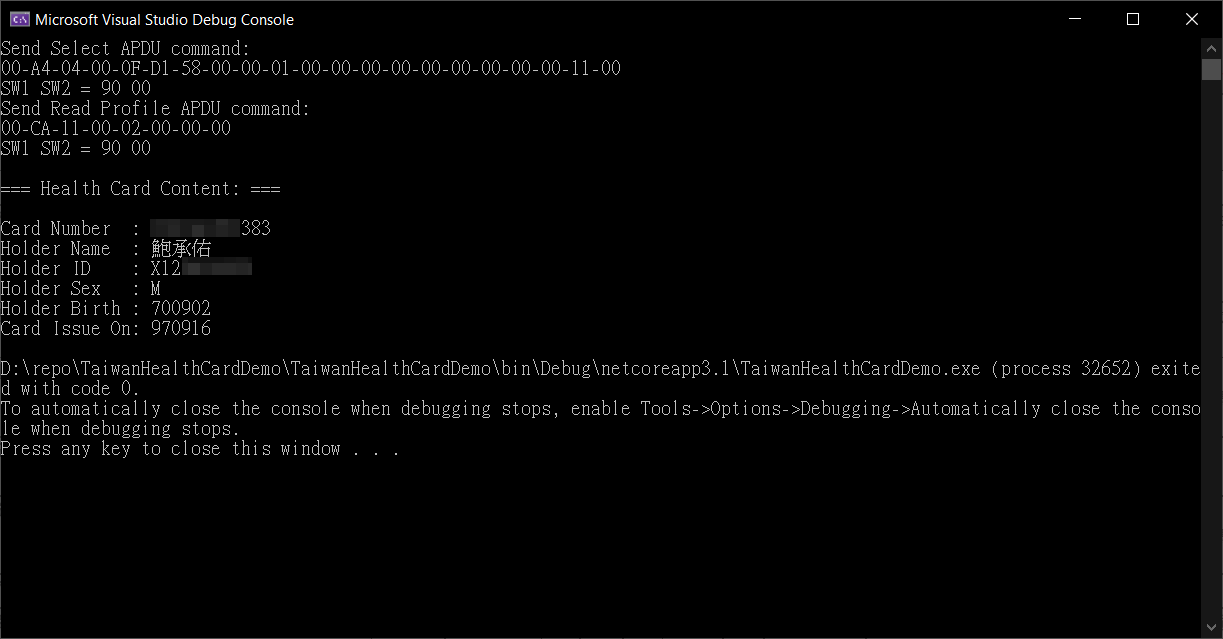
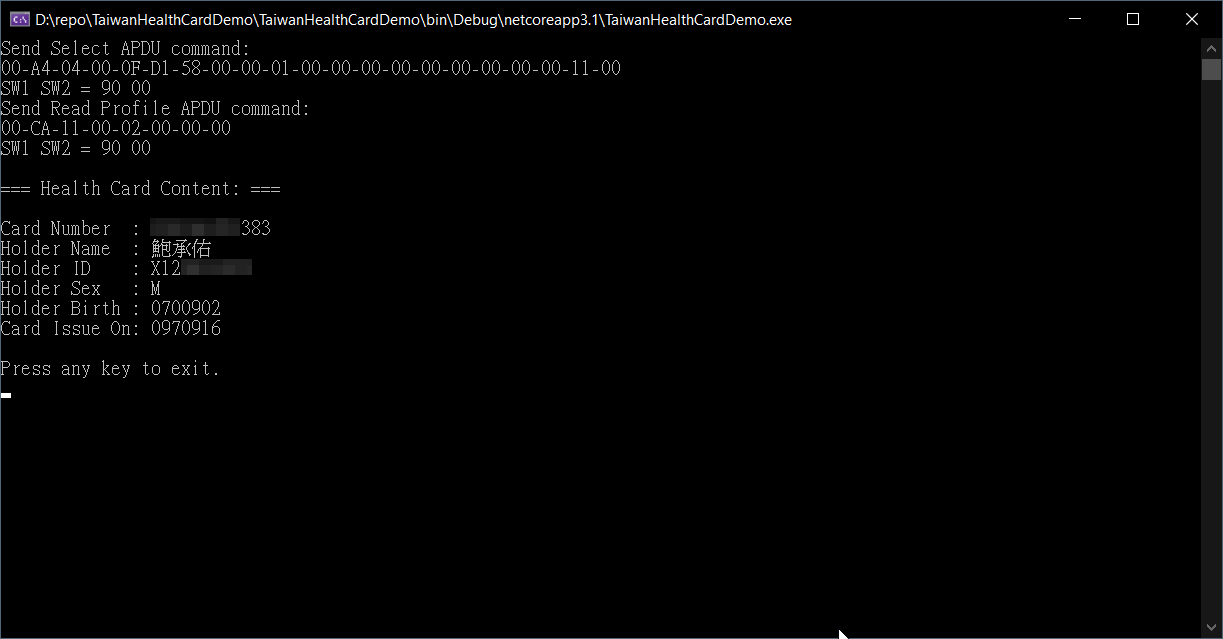
Fix wrong year digit

diff --git a/TaiwanHealthCardDemo/Program.cs b/TaiwanHealthCardDemo/Program.cs
@@ -62,9 +62,9 @@ namespace TaiwanHealthCardDemo
                         var cardNumber = GetCardNumber(data[..12]);
                         var cardHolderName = GetHolderName(data[12..32]);
                         var holderIdNum = GetHolderIdNum(data[32..42]);
-                        var holderBirth = GetHolderBirthStr(data[43..49]);
+                        var holderBirth = GetHolderBirthStr(data[42..49]);
                         var holderSex = GetGender(data[49..50]);
-                        var cardIssueDate = GetIssueDate(data[51..57]);
+                        var cardIssueDate = GetIssueDate(data[50..57]);
 
                         Console.WriteLine("\r\n=== Health Card Content: ===\r\n");
                         Console.WriteLine(
